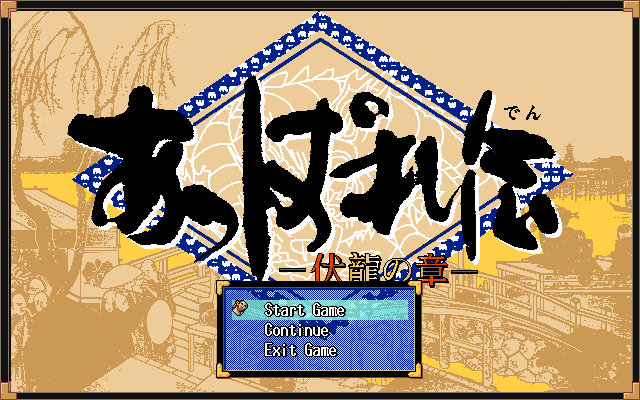
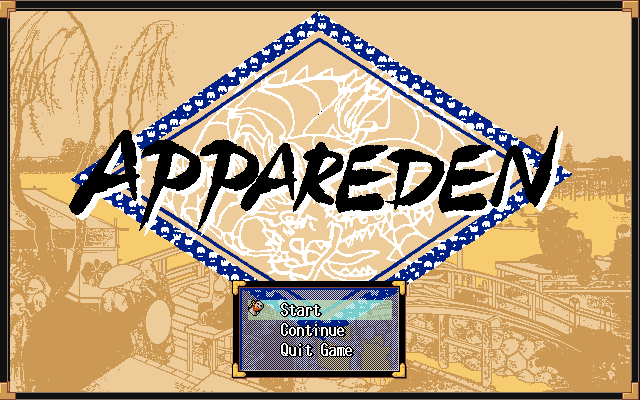
Insert working title image, update that in readme

diff --git a/gem.py b/gem.py
@@ -31,7 +31,7 @@ NAMETAG_PALETTE_RGB = [(0x00, 0x00, 0x00),
 
 TITLE_PALETTE_RGB = [(0x00, 0x00, 0x00),
                (0x11, 0x11, 0x11),
-               (0x88, 0x44, 0x33),
+               (0x88, 0x44, 0x33),     # also 88 44 33,  84 46 38
                (0xdd, 0x44, 0x00),
                (0xcc, 0x99, 0x55),
                (0xff, 0xcc, 0x44),
@@ -62,6 +62,17 @@ TEFF_PALETTE_RGB = [(0x00, 0x00, 0x00),
                (0x88, 0xbb, 0xff),
                (0x66, 0xaa, 0xaa),
                (0xff, 0xff, 0xff),]
+
+def get_closest_color_index(palette, rgb):
+    hammings = [255]*16
+    for i, color in enumerate(palette):
+        hamming = 0
+        for val in range(3):
+            hamming += abs(color[val] - rgb[val])
+        hammings[i] = hamming
+    return hammings.index(min(hammings))
+
+
 
 NAMETAG_PALETTE_IMAGES = ['BENIMARU', 'GENNAI', 'GENTO', 'HANZOU', 'HEILEE', 'MEIRIN', 'OUGI', 'TAMAMO']
 TITLE_PALETTE_IMAGES = ['ORTITLE',]
@@ -120,7 +131,10 @@ def encode(filename):
             for plane in range(4):
 
                 for p in rowdata:
-                    palette_index = palette_rgb.index(p)
+                    try:
+                        palette_index = palette_rgb.index(p)
+                    except ValueError:
+                        palette_index = get_closest_color_index(palette_rgb, p)
                     pattern.append(palette_index in PLANE_COLORS[plane])
 
             pattern = BitArray(pattern).bytes
@@ -334,7 +348,7 @@ def decode_spz(filename, image):
 
 if __name__ == '__main__':
     #encode('TEFF_00A.png')
-    #encode('ORTITLE.png')
+    encode('ORTITLE.png')
     #write_spz('TEFF_00A.png', 6)
-    decode_spz('SFCHR_99.SPZ', 'SFCHR_99.png')    # Much more complex
+    #decode_spz('SFCHR_99.SPZ', 'SFCHR_99.png')    # Much more complex
     #decode_spz('TEFF_00A.SPZ', 'TEFF_00A.png')   # Simple and already documented
